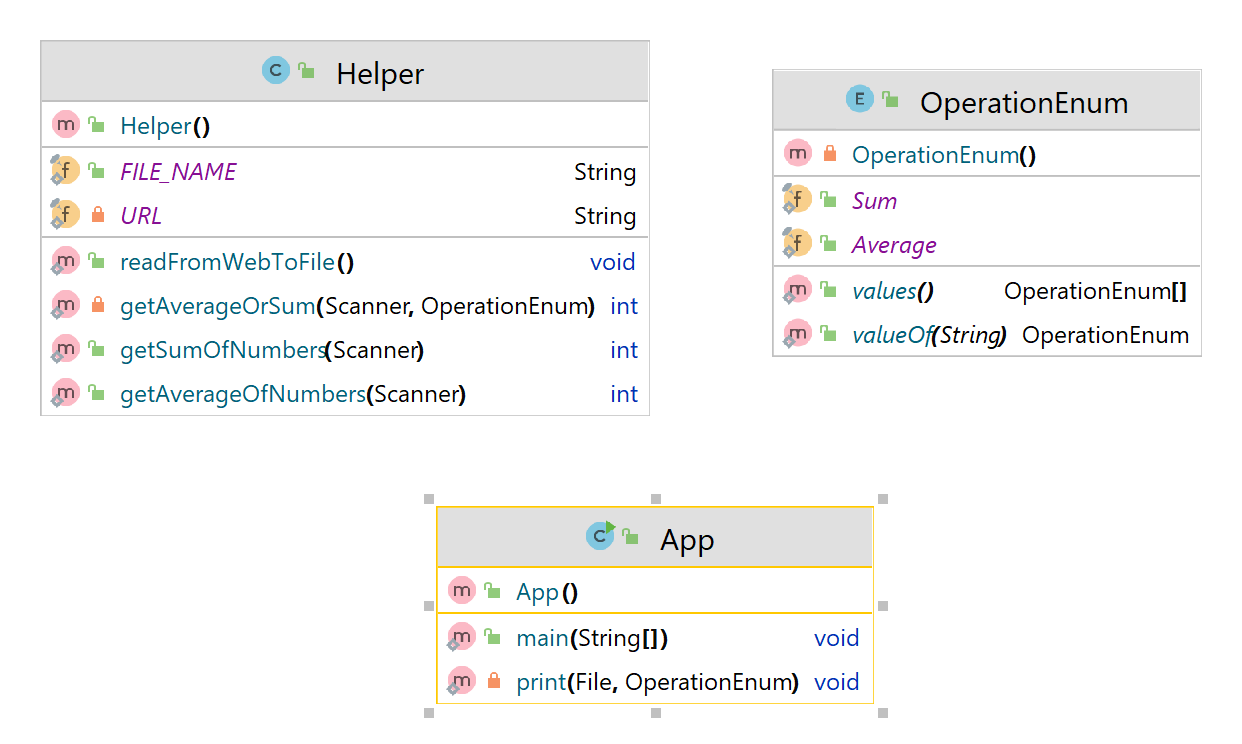
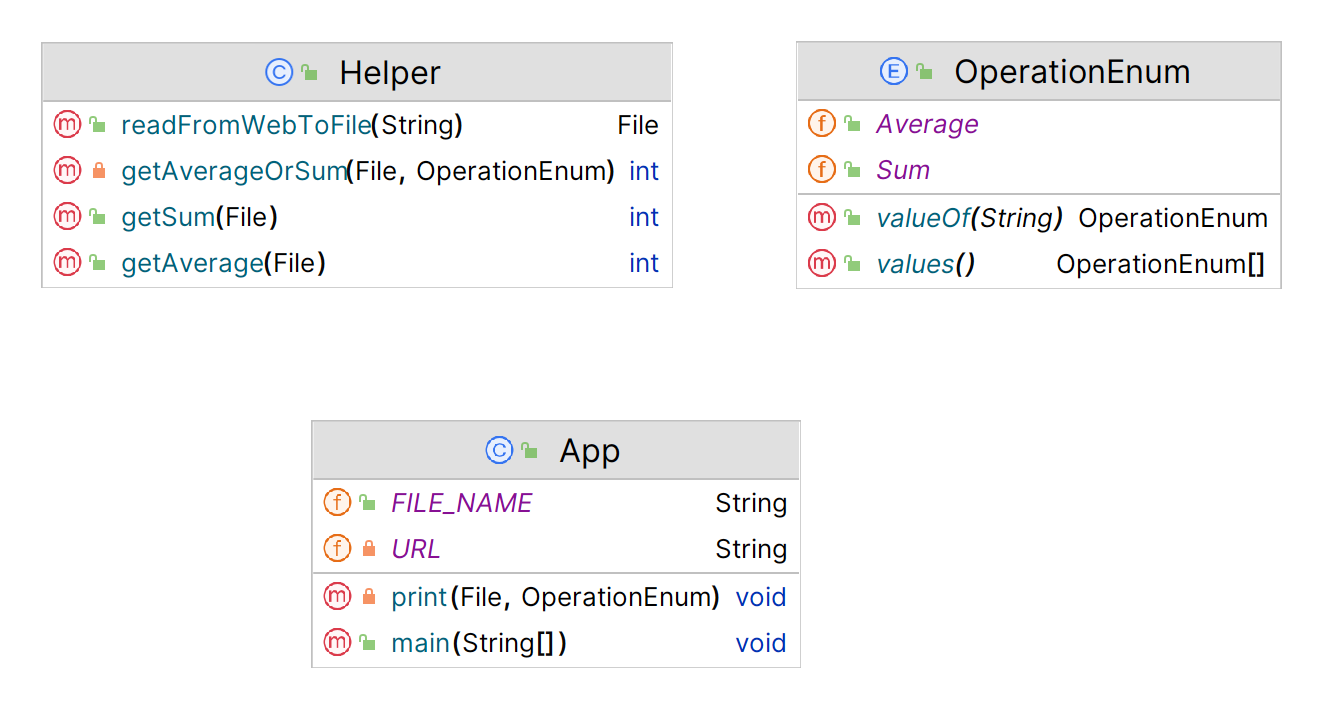
Calculate the sum and average from a file project applied the code structure

diff --git a/week-5/sum_of_numbers_in_file/src/main/java/job_hacker/exercise/Helper.java b/week-5/sum_of_numbers_in_file/src/main/java/job_hacker/exercise/Helper.java
@@ -1,59 +1,66 @@
 package job_hacker.exercise;
 
-import java.io.BufferedWriter;
-import java.io.FileWriter;
-import java.io.IOException;
-import java.io.InputStream;
+import java.io.*;
 import java.net.URL;
-import java.nio.file.Files;
-import java.nio.file.Path;
-import java.nio.file.Paths;
-import java.nio.file.StandardCopyOption;
+import java.nio.charset.StandardCharsets;
 import java.util.InputMismatchException;
 import java.util.Scanner;
 
 public class Helper {
-    public static final String FILE_NAME = "Scores.txt";
-    private static final String URL = "http://liveexample.pearsoncmg.com/data/Scores.txt";
-    public static void readFromWebToFile() throws IOException {
-        URL scoreUrl = new URL(URL);
-        Scanner scanner = new Scanner(scoreUrl.openStream());
-        BufferedWriter writer = new BufferedWriter(new FileWriter("src/main/resources/" + "Scores.txt"));
-        BufferedWriter targetWriter = new BufferedWriter(new FileWriter("target/classes/" + "Scores.txt"));
 
-        while (scanner.hasNextLine()) {
-            String line = scanner.nextLine();
-            writer.write(line);
-            targetWriter.write(line);
-            writer.newLine();
-            targetWriter.newLine();
+    public static File readFromWebToFile(String url) {
+        Scanner scanner = null;
+        try {
+            URL scoreUrl = new URL(url);
+            scanner = new Scanner(scoreUrl.openStream(), StandardCharsets.UTF_8);
+        } catch (IOException e) {
+            System.out.println("Cant open connection with " + url);
+            throw new RuntimeException(e);
         }
+
+        PrintWriter writer = null;
+        File file = new File( App.FILE_NAME);
+        try {
+            writer = new PrintWriter(file);
+        } catch (IOException e) {
+            System.out.println("cant create file " + file.getName());
+            throw new RuntimeException(e);
+        }
+
+        while (scanner.hasNextLine())
+            writer.println(scanner.nextLine());
 
         scanner.close();
         writer.close();
-        targetWriter.close();
-    }
-    private static int getAverageOrSum(Scanner scanner, OperationEnum operationEnum){
-        int wordCount = 0, sum = 0;
 
-        while (scanner.hasNext()) {
-            try {
-                sum += scanner.nextInt();
-                wordCount++;
+        return file;
+    }
+    private static int getAverageOrSum(File file, OperationEnum operationEnum){
+        try(Scanner scanner = new Scanner(file)) {
+            int wordCount = 0, sum = 0;
+
+            while (scanner.hasNext()) {
+                try {
+                    sum += scanner.nextInt();
+                    wordCount++;
+                }
+                catch (InputMismatchException e){
+                    System.out.println("Invalid number in the file-> " + scanner.next() + ".");
+                }
             }
-            catch (InputMismatchException e){
-                System.out.println("Invalid number in the file-> " + scanner.next() + ".");
-            }
+            if (wordCount == 0)
+                return 0;
+            return operationEnum == OperationEnum.Average ? (sum / wordCount) : sum;
+        } catch (FileNotFoundException e) {
+            System.out.println("File " + file.getName() + " Not Found");
+            throw new RuntimeException(e);
         }
-        if (wordCount == 0)
-            return 0;
-        return operationEnum == OperationEnum.Average ? (sum / wordCount) : sum;
     }
-    public static int getAverageOfNumbers(Scanner scanner){
-        return getAverageOrSum(scanner, OperationEnum.Average);
+    public static int getAverage(File file){
+        return getAverageOrSum(file, OperationEnum.Average);
     }
-    public static int getSumOfNumbers(Scanner scanner){
-        return getAverageOrSum(scanner, OperationEnum.Sum);
+    public static int getSum(File file){
+        return getAverageOrSum(file, OperationEnum.Sum);
     }
 
 }

diff --git a/week-5/sum_of_numbers_in_file/src/main/java/job_hacker/exercise/App.java b/week-5/sum_of_numbers_in_file/src/main/java/job_hacker/exercise/App.java
@@ -1,48 +1,28 @@
 package job_hacker.exercise;
 
 import java.io.*;
-import java.net.URL;
-import java.util.InputMismatchException;
-import java.util.Scanner;
 
-/**
- * Hello world!
- *
- */
+
 public class App 
 {
-
+    public static final String FILE_NAME = "Scores.txt";
+    private static final String URL = "http://liveexample.pearsoncmg.com/data/Scores.txt";
 
     private static void print(File file, OperationEnum operation){
-        try(Scanner scanner = new Scanner(file)) {
-            int value = 0;
-            if (operation == OperationEnum.Sum)
-                value = Helper.getSumOfNumbers(scanner);
-            else if (operation == OperationEnum.Average)
-                value = Helper.getAverageOfNumbers(scanner);
 
-            System.out.println(operation.name() + " of numbers in file is "+ value);
-        } catch (FileNotFoundException e) {
-            System.out.println("File " + Helper.FILE_NAME + " Not Found");
-            System.out.println(e.getMessage());
-        }
+        int value = 0;
+        if (operation == OperationEnum.Sum)
+            value = Helper.getSum(file);
+        else if (operation == OperationEnum.Average)
+            value = Helper.getAverage(file);
+
+        System.out.println(operation.name() + " of numbers in file is "+ value);
     }
 
     public static void main( String[] args )
     {
-        try {
-            Helper.readFromWebToFile();
-        } catch (IOException e) {
-            throw new RuntimeException(e);
-        }
-        try {
-            File file = new File(App.class.getResource("/" + Helper.FILE_NAME).getFile());
-            print(file, OperationEnum.Sum);
-            print(file, OperationEnum.Average);
-
-        } catch (NullPointerException nullPointerException){
-            System.out.println("File " + Helper.FILE_NAME + " Not Found");
-            System.out.println(nullPointerException.getMessage());
-        }
+        File file = Helper.readFromWebToFile(URL);
+        print(file, OperationEnum.Sum);
+        print(file, OperationEnum.Average);
     }
 }
